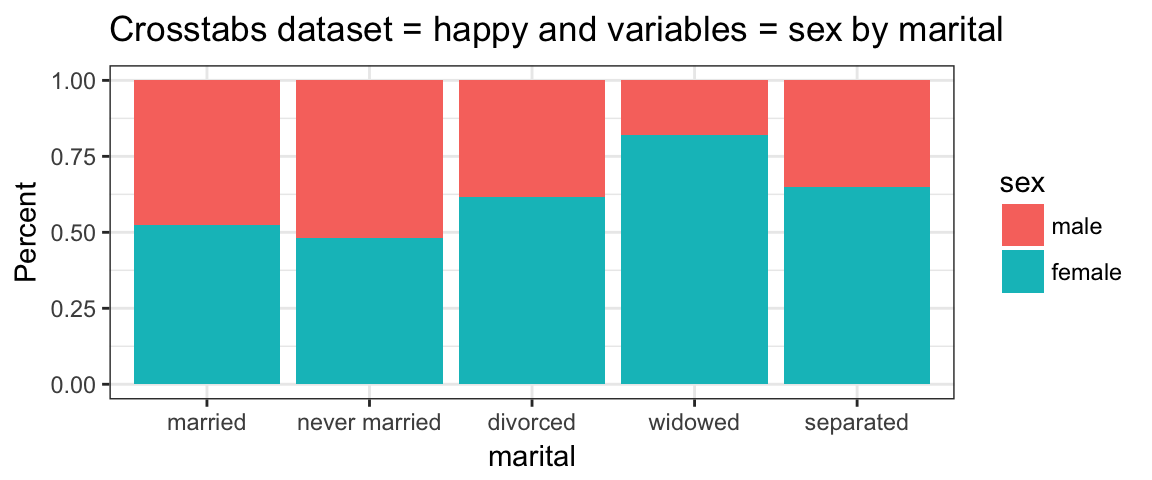
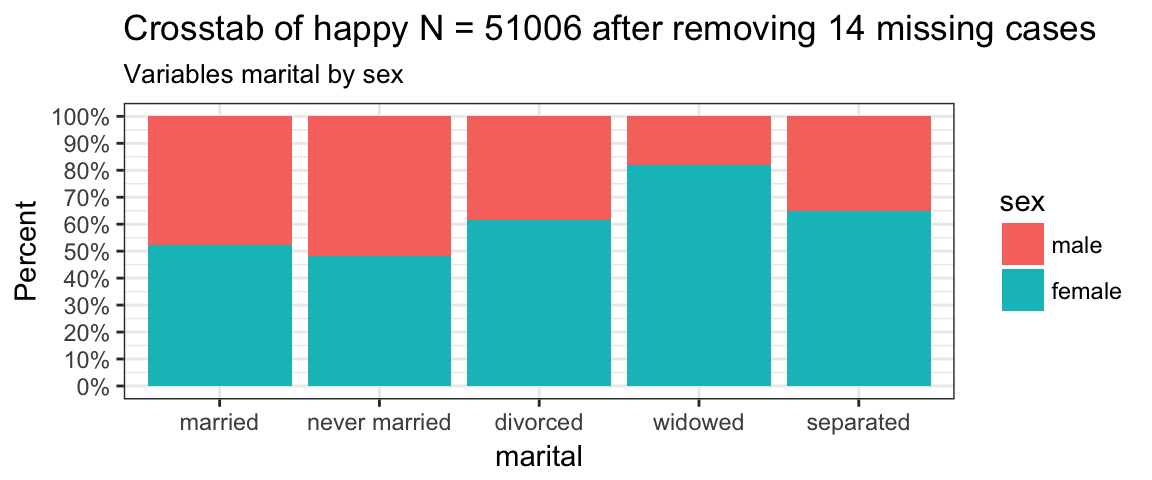
Website rebuilt to acknowledge hotfix

diff --git a/docs/articles/Using-PlotXTabs.html b/docs/articles/Using-PlotXTabs.html
@@ -38,7 +38,7 @@
       </button>
       <span class="navbar-brand">
         <a class="navbar-link" href="../index.html">CGPfunctions</a>
-        <span class="label label-default" data-toggle="tooltip" data-placement="bottom" title="Released package">0.3</span>
+        <span class="label label-default" data-toggle="tooltip" data-placement="bottom" title="Released package">0.3.1</span>
       </span>
     </div>
 
@@ -94,7 +94,7 @@
       <h1>Using PlotXTabs</h1>
                         <h4 class="author">Chuck Powell</h4>
             
-            <h4 class="date">2018-04-19</h4>
+            <h4 class="date">2018-04-25</h4>
       
       <small>Source: <a href="https://github.com/ibecav/CGPfunctions/blob/master/vignettes/Using-PlotXTabs.Rmd"><code>vignettes/Using-PlotXTabs.Rmd</code></a></small>
       <p class="hidden name"><code>Using-PlotXTabs.Rmd</code></p>
@@ -127,34 +127,34 @@
 <p>The data is a small sample of variables related to happiness from the general social survey (GSS). The GSS is a yearly cross-sectional survey of Americans, run from 1976. We combine data for 25 years to yield 51,020 observations, and of the over 5,000 variables, we select nine related to happiness.</p>
 </blockquote>
 <p>We’ll load the library and take a quick look at the structure of the data.</p>
-<div class="sourceCode"><pre class="sourceCode r"><code class="sourceCode r"><span class="kw">library</span>(productplots)
-<span class="kw">str</span>(happy)
-<span class="co">#&gt; 'data.frame':    51020 obs. of  10 variables:</span>
-<span class="co">#&gt;  $ id     : num  1 2 3 4 5 6 7 8 9 10 ...</span>
-<span class="co">#&gt;  $ happy  : Factor w/ 3 levels "not too happy",..: 1 1 2 1 2 2 1 1 2 2 ...</span>
-<span class="co">#&gt;  $ year   : num  1972 1972 1972 1972 1972 ...</span>
-<span class="co">#&gt;  $ age    : num  23 70 48 27 61 26 28 27 21 30 ...</span>
-<span class="co">#&gt;  $ sex    : Factor w/ 2 levels "male","female": 2 1 2 2 2 1 1 1 2 2 ...</span>
-<span class="co">#&gt;  $ marital: Factor w/ 5 levels "married","never married",..: 2 1 1 1 1 2 3 2 2 1 ...</span>
-<span class="co">#&gt;  $ degree : Factor w/ 5 levels "lt high school",..: 4 1 2 4 2 2 2 4 2 2 ...</span>
-<span class="co">#&gt;  $ finrela: Factor w/ 5 levels "far below average",..: 3 4 3 3 4 4 4 3 3 2 ...</span>
-<span class="co">#&gt;  $ health : Factor w/ 4 levels "poor","fair",..: 3 2 4 3 3 3 4 3 4 2 ...</span>
-<span class="co">#&gt;  $ wtssall: num  0.445 0.889 0.889 0.889 0.889 ...</span></code></pre></div>
+<div class="sourceCode" id="cb1"><pre class="sourceCode r"><code class="sourceCode r"><a class="sourceLine" id="cb1-1" data-line-number="1"><span class="kw">library</span>(productplots)</a>
+<a class="sourceLine" id="cb1-2" data-line-number="2"><span class="kw">str</span>(happy)</a>
+<a class="sourceLine" id="cb1-3" data-line-number="3"><span class="co">#&gt; 'data.frame':    51020 obs. of  10 variables:</span></a>
+<a class="sourceLine" id="cb1-4" data-line-number="4"><span class="co">#&gt;  $ id     : num  1 2 3 4 5 6 7 8 9 10 ...</span></a>
+<a class="sourceLine" id="cb1-5" data-line-number="5"><span class="co">#&gt;  $ happy  : Factor w/ 3 levels "not too happy",..: 1 1 2 1 2 2 1 1 2 2 ...</span></a>
+<a class="sourceLine" id="cb1-6" data-line-number="6"><span class="co">#&gt;  $ year   : num  1972 1972 1972 1972 1972 ...</span></a>
+<a class="sourceLine" id="cb1-7" data-line-number="7"><span class="co">#&gt;  $ age    : num  23 70 48 27 61 26 28 27 21 30 ...</span></a>
+<a class="sourceLine" id="cb1-8" data-line-number="8"><span class="co">#&gt;  $ sex    : Factor w/ 2 levels "male","female": 2 1 2 2 2 1 1 1 2 2 ...</span></a>
+<a class="sourceLine" id="cb1-9" data-line-number="9"><span class="co">#&gt;  $ marital: Factor w/ 5 levels "married","never married",..: 2 1 1 1 1 2 3 2 2 1 ...</span></a>
+<a class="sourceLine" id="cb1-10" data-line-number="10"><span class="co">#&gt;  $ degree : Factor w/ 5 levels "lt high school",..: 4 1 2 4 2 2 2 4 2 2 ...</span></a>
+<a class="sourceLine" id="cb1-11" data-line-number="11"><span class="co">#&gt;  $ finrela: Factor w/ 5 levels "far below average",..: 3 4 3 3 4 4 4 3 3 2 ...</span></a>
+<a class="sourceLine" id="cb1-12" data-line-number="12"><span class="co">#&gt;  $ health : Factor w/ 4 levels "poor","fair",..: 3 2 4 3 3 3 4 3 4 2 ...</span></a>
+<a class="sourceLine" id="cb1-13" data-line-number="13"><span class="co">#&gt;  $ wtssall: num  0.445 0.889 0.889 0.889 0.889 ...</span></a></code></pre></div>
 <p>We’ll be focusing on the non numeric variables. I certainly can’t claim to do a detailed analysis here but at least the questions will be fun I hope…</p>
-<div class="sourceCode"><pre class="sourceCode r"><code class="sourceCode r"><span class="co"># who's happier by gender</span>
-<span class="kw"><a href="../reference/PlotXTabs.html">PlotXTabs</a></span>(happy,happy,sex)
-<span class="co">#&gt; Plotted dataset happy variables happy by sex</span></code></pre></div>
+<div class="sourceCode" id="cb2"><pre class="sourceCode r"><code class="sourceCode r"><a class="sourceLine" id="cb2-1" data-line-number="1"><span class="co"># who's happier by gender</span></a>
+<a class="sourceLine" id="cb2-2" data-line-number="2"><span class="kw"><a href="../reference/PlotXTabs.html">PlotXTabs</a></span>(happy,happy,sex)</a>
+<a class="sourceLine" id="cb2-3" data-line-number="3"><span class="co">#&gt; Plotted dataset happy variables happy by sex</span></a></code></pre></div>
 <p><img src="Using-PlotXTabs_files/figure-html/vignette1-1.png" width="576"></p>
-<div class="sourceCode"><pre class="sourceCode r"><code class="sourceCode r"><span class="co"># same thing using column numbers and a stacked bar</span>
-<span class="kw"><a href="../reference/PlotXTabs.html">PlotXTabs</a></span>(happy,<span class="dv">2</span>,<span class="dv">5</span>,<span class="st">"stack"</span>)
-<span class="co">#&gt; Creating the variable pairings from dataframe happy</span>
-<span class="co">#&gt; Plot #1 happy with sex</span>
-<span class="co">#&gt; Plotting complete</span></code></pre></div>
+<div class="sourceCode" id="cb3"><pre class="sourceCode r"><code class="sourceCode r"><a class="sourceLine" id="cb3-1" data-line-number="1"><span class="co"># same thing using column numbers and a stacked bar</span></a>
+<a class="sourceLine" id="cb3-2" data-line-number="2"><span class="kw"><a href="../reference/PlotXTabs.html">PlotXTabs</a></span>(happy,<span class="dv">2</span>,<span class="dv">5</span>,<span class="st">"stack"</span>)</a>
+<a class="sourceLine" id="cb3-3" data-line-number="3"><span class="co">#&gt; Creating the variable pairings from dataframe happy</span></a>
+<a class="sourceLine" id="cb3-4" data-line-number="4"><span class="co">#&gt; Plot #1 happy with sex</span></a>
+<a class="sourceLine" id="cb3-5" data-line-number="5"><span class="co">#&gt; Plotting complete</span></a></code></pre></div>
 <p><img src="Using-PlotXTabs_files/figure-html/vignette1-2.png" width="576"></p>
-<div class="sourceCode"><pre class="sourceCode r"><code class="sourceCode r"><span class="co"># happiness by a variety of possible factors as a percent</span>
-<span class="kw"><a href="../reference/PlotXTabs.html">PlotXTabs</a></span>(happy, <span class="dv">2</span>, <span class="kw">c</span>(<span class="dv">5</span><span class="op">:</span><span class="dv">9</span>), <span class="dt">plottype =</span> <span class="st">"percent"</span>)
-<span class="co">#&gt; Creating the variable pairings from dataframe happy</span>
-<span class="co">#&gt; Plot #1 happy with sex</span></code></pre></div>
+<div class="sourceCode" id="cb4"><pre class="sourceCode r"><code class="sourceCode r"><a class="sourceLine" id="cb4-1" data-line-number="1"><span class="co"># happiness by a variety of possible factors as a percent</span></a>
+<a class="sourceLine" id="cb4-2" data-line-number="2"><span class="kw"><a href="../reference/PlotXTabs.html">PlotXTabs</a></span>(happy, <span class="dv">2</span>, <span class="kw">c</span>(<span class="dv">5</span><span class="op">:</span><span class="dv">9</span>), <span class="dt">plottype =</span> <span class="st">"percent"</span>)</a>
+<a class="sourceLine" id="cb4-3" data-line-number="3"><span class="co">#&gt; Creating the variable pairings from dataframe happy</span></a>
+<a class="sourceLine" id="cb4-4" data-line-number="4"><span class="co">#&gt; Plot #1 happy with sex</span></a></code></pre></div>
 <p><img src="Using-PlotXTabs_files/figure-html/vignette1-3.png" width="576"></p>
 <pre><code>#&gt; Plot #2 happy with marital</code></pre>
 <p><img src="Using-PlotXTabs_files/figure-html/vignette1-4.png" width="576"></p>
@@ -165,18 +165,18 @@
 <pre><code>#&gt; Plot #5 happy with health
 #&gt; Plotting complete</code></pre>
 <p><img src="Using-PlotXTabs_files/figure-html/vignette1-7.png" width="576"></p>
-<div class="sourceCode"><pre class="sourceCode r"><code class="sourceCode r"><span class="co"># turn the numbers around and change them up basically just showing all</span>
-<span class="co"># the permutations</span>
-<span class="kw"><a href="../reference/PlotXTabs.html">PlotXTabs</a></span>(happy, <span class="kw">c</span>(<span class="dv">2</span>,<span class="dv">5</span>), <span class="dv">9</span>, <span class="dt">plottype =</span> <span class="st">"side"</span>)
-<span class="co">#&gt; Creating the variable pairings from dataframe happy</span>
-<span class="co">#&gt; Plot #1 happy with health</span></code></pre></div>
+<div class="sourceCode" id="cb9"><pre class="sourceCode r"><code class="sourceCode r"><a class="sourceLine" id="cb9-1" data-line-number="1"><span class="co"># turn the numbers around and change them up basically just showing all</span></a>
+<a class="sourceLine" id="cb9-2" data-line-number="2"><span class="co"># the permutations</span></a>
+<a class="sourceLine" id="cb9-3" data-line-number="3"><span class="kw"><a href="../reference/PlotXTabs.html">PlotXTabs</a></span>(happy, <span class="kw">c</span>(<span class="dv">2</span>,<span class="dv">5</span>), <span class="dv">9</span>, <span class="dt">plottype =</span> <span class="st">"side"</span>)</a>
+<a class="sourceLine" id="cb9-4" data-line-number="4"><span class="co">#&gt; Creating the variable pairings from dataframe happy</span></a>
+<a class="sourceLine" id="cb9-5" data-line-number="5"><span class="co">#&gt; Plot #1 happy with health</span></a></code></pre></div>
 <p><img src="Using-PlotXTabs_files/figure-html/vignette1-8.png" width="576"></p>
 <pre><code>#&gt; Plot #2 sex with health
 #&gt; Plotting complete</code></pre>
 <p><img src="Using-PlotXTabs_files/figure-html/vignette1-9.png" width="576"></p>
-<div class="sourceCode"><pre class="sourceCode r"><code class="sourceCode r"><span class="kw"><a href="../reference/PlotXTabs.html">PlotXTabs</a></span>(happy, <span class="kw">c</span>(<span class="dv">2</span>,<span class="dv">5</span>), <span class="kw">c</span>(<span class="dv">6</span><span class="op">:</span><span class="dv">9</span>), <span class="dt">plottype =</span> <span class="st">"percent"</span>)
-<span class="co">#&gt; Creating the variable pairings from dataframe happy</span>
-<span class="co">#&gt; Plot #1 happy with marital</span></code></pre></div>
+<div class="sourceCode" id="cb11"><pre class="sourceCode r"><code class="sourceCode r"><a class="sourceLine" id="cb11-1" data-line-number="1"><span class="kw"><a href="../reference/PlotXTabs.html">PlotXTabs</a></span>(happy, <span class="kw">c</span>(<span class="dv">2</span>,<span class="dv">5</span>), <span class="kw">c</span>(<span class="dv">6</span><span class="op">:</span><span class="dv">9</span>), <span class="dt">plottype =</span> <span class="st">"percent"</span>)</a>
+<a class="sourceLine" id="cb11-2" data-line-number="2"><span class="co">#&gt; Creating the variable pairings from dataframe happy</span></a>
+<a class="sourceLine" id="cb11-3" data-line-number="3"><span class="co">#&gt; Plot #1 happy with marital</span></a></code></pre></div>
 <p><img src="Using-PlotXTabs_files/figure-html/vignette1-10.png" width="576"></p>
 <pre><code>#&gt; Plot #2 happy with degree</code></pre>
 <p><img src="Using-PlotXTabs_files/figure-html/vignette1-11.png" width="576"></p>
@@ -193,18 +193,18 @@
 <pre><code>#&gt; Plot #8 sex with health
 #&gt; Plotting complete</code></pre>
 <p><img src="Using-PlotXTabs_files/figure-html/vignette1-17.png" width="576"></p>
-<div class="sourceCode"><pre class="sourceCode r"><code class="sourceCode r"><span class="kw"><a href="../reference/PlotXTabs.html">PlotXTabs</a></span>(happy, happy, <span class="kw">c</span>(<span class="dv">6</span>,<span class="dv">7</span>,<span class="dv">9</span>), <span class="dt">plottype =</span> <span class="st">"percent"</span>)
-<span class="co">#&gt; Creating the variable pairings from dataframe happy</span>
-<span class="co">#&gt; Plot #1 happy with marital</span></code></pre></div>
+<div class="sourceCode" id="cb19"><pre class="sourceCode r"><code class="sourceCode r"><a class="sourceLine" id="cb19-1" data-line-number="1"><span class="kw"><a href="../reference/PlotXTabs.html">PlotXTabs</a></span>(happy, happy, <span class="kw">c</span>(<span class="dv">6</span>,<span class="dv">7</span>,<span class="dv">9</span>), <span class="dt">plottype =</span> <span class="st">"percent"</span>)</a>
+<a class="sourceLine" id="cb19-2" data-line-number="2"><span class="co">#&gt; Creating the variable pairings from dataframe happy</span></a>
+<a class="sourceLine" id="cb19-3" data-line-number="3"><span class="co">#&gt; Plot #1 happy with marital</span></a></code></pre></div>
 <p><img src="Using-PlotXTabs_files/figure-html/vignette1-18.png" width="576"></p>
 <pre><code>#&gt; Plot #2 happy with degree</code></pre>
 <p><img src="Using-PlotXTabs_files/figure-html/vignette1-19.png" width="576"></p>
 <pre><code>#&gt; Plot #3 happy with health
 #&gt; Plotting complete</code></pre>
 <p><img src="Using-PlotXTabs_files/figure-html/vignette1-20.png" width="576"></p>
-<div class="sourceCode"><pre class="sourceCode r"><code class="sourceCode r"><span class="kw"><a href="../reference/PlotXTabs.html">PlotXTabs</a></span>(happy, <span class="kw">c</span>(<span class="dv">6</span>,<span class="dv">7</span>,<span class="dv">9</span>), happy, <span class="dt">plottype =</span> <span class="st">"percent"</span>)
-<span class="co">#&gt; Creating the variable pairings from dataframe happy</span>
-<span class="co">#&gt; Plot #1 marital with happy</span></code></pre></div>
+<div class="sourceCode" id="cb22"><pre class="sourceCode r"><code class="sourceCode r"><a class="sourceLine" id="cb22-1" data-line-number="1"><span class="kw"><a href="../reference/PlotXTabs.html">PlotXTabs</a></span>(happy, <span class="kw">c</span>(<span class="dv">6</span>,<span class="dv">7</span>,<span class="dv">9</span>), happy, <span class="dt">plottype =</span> <span class="st">"percent"</span>)</a>
+<a class="sourceLine" id="cb22-2" data-line-number="2"><span class="co">#&gt; Creating the variable pairings from dataframe happy</span></a>
+<a class="sourceLine" id="cb22-3" data-line-number="3"><span class="co">#&gt; Plot #1 marital with happy</span></a></code></pre></div>
 <p><img src="Using-PlotXTabs_files/figure-html/vignette1-21.png" width="576"></p>
 <pre><code>#&gt; Plot #2 degree with happy</code></pre>
 <p><img src="Using-PlotXTabs_files/figure-html/vignette1-22.png" width="576"></p>

diff --git a/docs/articles/Using-Plot2WayANOVA.html b/docs/articles/Using-Plot2WayANOVA.html
@@ -38,7 +38,7 @@
       </button>
       <span class="navbar-brand">
         <a class="navbar-link" href="../index.html">CGPfunctions</a>
-        <span class="label label-default" data-toggle="tooltip" data-placement="bottom" title="Released package">0.3</span>
+        <span class="label label-default" data-toggle="tooltip" data-placement="bottom" title="Released package">0.3.1</span>
       </span>
     </div>
 
@@ -94,7 +94,7 @@
       <h1>Using Plot2WayAnova</h1>
                         <h4 class="author">Chuck Powell</h4>
             
-            <h4 class="date">2018-04-19</h4>
+            <h4 class="date">2018-04-25</h4>
       
       <small>Source: <a href="https://github.com/ibecav/CGPfunctions/blob/master/vignettes/Using-Plot2WayANOVA.Rmd"><code>vignettes/Using-Plot2WayANOVA.Rmd</code></a></small>
       <p class="hidden name"><code>Using-Plot2WayANOVA.Rmd</code></p>
@@ -142,63 +142,63 @@
 <div id="installation" class="section level2">
 <h2 class="hasAnchor">
 <a href="#installation" class="anchor"></a>Installation</h2>
-<div class="sourceCode"><pre class="sourceCode r"><code class="sourceCode r"><span class="co"># Install from CRAN</span>
-<span class="kw">install.packages</span>(<span class="st">"CGPfunctions"</span>)
-
-<span class="co"># Or the development version from GitHub</span>
-<span class="co"># install.packages("devtools")</span>
-devtools<span class="op">::</span><span class="kw"><a href="http://www.rdocumentation.org/packages/devtools/topics/install_github">install_github</a></span>(<span class="st">"ibecav/CGPfunctions"</span>)</code></pre></div>
+<div class="sourceCode" id="cb1"><pre class="sourceCode r"><code class="sourceCode r"><a class="sourceLine" id="cb1-1" data-line-number="1"><span class="co"># Install from CRAN</span></a>
+<a class="sourceLine" id="cb1-2" data-line-number="2"><span class="kw">install.packages</span>(<span class="st">"CGPfunctions"</span>)</a>
+<a class="sourceLine" id="cb1-3" data-line-number="3"></a>
+<a class="sourceLine" id="cb1-4" data-line-number="4"><span class="co"># Or the development version from GitHub</span></a>
+<a class="sourceLine" id="cb1-5" data-line-number="5"><span class="co"># install.packages("devtools")</span></a>
+<a class="sourceLine" id="cb1-6" data-line-number="6">devtools<span class="op">::</span><span class="kw"><a href="http://www.rdocumentation.org/packages/devtools/topics/install_github">install_github</a></span>(<span class="st">"ibecav/CGPfunctions"</span>)</a></code></pre></div>
 <p>then load the library.</p>
-<div class="sourceCode"><pre class="sourceCode r"><code class="sourceCode r"><span class="kw">library</span>(CGPfunctions)</code></pre></div>
+<div class="sourceCode" id="cb2"><pre class="sourceCode r"><code class="sourceCode r"><a class="sourceLine" id="cb2-1" data-line-number="1"><span class="kw">library</span>(CGPfunctions)</a></code></pre></div>
 </div>
 <div id="example-of-using-the-function" class="section level2">
 <h2 class="hasAnchor">
 <a href="#example-of-using-the-function" class="anchor"></a>Example of using the function</h2>
 <p>The only two required parameters are a formula and a dataframe (like) object. If we run the function in its simplest form here’s what we get.</p>
-<div class="sourceCode"><pre class="sourceCode r"><code class="sourceCode r"><span class="kw"><a href="../reference/Plot2WayANOVA.html">Plot2WayANOVA</a></span>(mpg<span class="op">~</span>am<span class="op">*</span>cyl, mtcars)
-<span class="co">#&gt; </span>
-<span class="co">#&gt; Converting am to a factor --- check your results</span>
-<span class="co">#&gt; </span>
-<span class="co">#&gt; Converting cyl to a factor --- check your results</span>
-<span class="co">#&gt; </span>
-<span class="co">#&gt; You have an unbalanced design. Using Type II sum of squares, eta squared may not sum to 1.0</span>
-<span class="co">#&gt; # A tibble: 4 x 8</span>
-<span class="co">#&gt;   Source       Df `Sum Sq` `Mean Sq` `F value`       p sigstars `eta sq`</span>
-<span class="co">#&gt;   &lt;fct&gt;     &lt;int&gt;    &lt;dbl&gt;     &lt;dbl&gt;     &lt;dbl&gt;   &lt;dbl&gt; &lt;chr&gt;       &lt;dbl&gt;</span>
-<span class="co">#&gt; 1 am            1     36.8     36.8       4.00  0.0560 .          0.0330</span>
-<span class="co">#&gt; 2 cyl           2    456.     228.       24.8   0.     ***        0.405 </span>
-<span class="co">#&gt; 3 am:cyl        2     25.4     12.7       1.40  0.269  ""         0.0230</span>
-<span class="co">#&gt; 4 Residuals    26    239.       9.19     NA    NA      &lt;NA&gt;       0.212</span>
-<span class="co">#&gt; </span>
-<span class="co">#&gt; Table of group means</span>
-<span class="co">#&gt; # A tibble: 6 x 9</span>
-<span class="co">#&gt; # Groups:   am [2]</span>
-<span class="co">#&gt;   am    cyl   TheMean TheSD TheSEM CIMuliplier LowerBound UpperBound     N</span>
-<span class="co">#&gt;   &lt;fct&gt; &lt;fct&gt;   &lt;dbl&gt; &lt;dbl&gt;  &lt;dbl&gt;       &lt;dbl&gt;      &lt;dbl&gt;      &lt;dbl&gt; &lt;int&gt;</span>
-<span class="co">#&gt; 1 0     4        22.9 1.45   0.839        4.30       19.3       26.5     3</span>
-<span class="co">#&gt; 2 0     6        19.1 1.63   0.816        3.18       16.5       21.7     4</span>
-<span class="co">#&gt; 3 0     8        15.0 2.77   0.801        2.20       13.3       16.8    12</span>
-<span class="co">#&gt; 4 1     4        28.1 4.48   1.59         2.36       24.3       31.8     8</span>
-<span class="co">#&gt; 5 1     6        20.6 0.751  0.433        4.30       18.7       22.4     3</span>
-<span class="co">#&gt; 6 1     8        15.4 0.566  0.400       12.7        10.3       20.5     2</span>
-<span class="co">#&gt; </span>
-<span class="co">#&gt; Testing Homogeneity of Variance with Brown-Forsythe</span>
-<span class="co">#&gt;    *** Possible violation of the assumption ***</span>
-<span class="co">#&gt; Levene's Test for Homogeneity of Variance (center = median)</span>
-<span class="co">#&gt;       Df F value  Pr(&gt;F)  </span>
-<span class="co">#&gt; group  5   2.736 0.04086 *</span>
-<span class="co">#&gt;       26                  </span>
-<span class="co">#&gt; ---</span>
-<span class="co">#&gt; Signif. codes:  0 '***' 0.001 '**' 0.01 '*' 0.05 '.' 0.1 ' ' 1</span>
-<span class="co">#&gt; </span>
-<span class="co">#&gt; Testing Normality Assumption with Shapiro-Wilk</span>
-<span class="co">#&gt; </span>
-<span class="co">#&gt;  Shapiro-Wilk normality test</span>
-<span class="co">#&gt; </span>
-<span class="co">#&gt; data:  MyAOV_residuals</span>
-<span class="co">#&gt; W = 0.96277, p-value = 0.3263</span>
-<span class="co">#&gt; </span>
-<span class="co">#&gt; Interaction graph plotted...</span></code></pre></div>
+<div class="sourceCode" id="cb3"><pre class="sourceCode r"><code class="sourceCode r"><a class="sourceLine" id="cb3-1" data-line-number="1"><span class="kw"><a href="../reference/Plot2WayANOVA.html">Plot2WayANOVA</a></span>(mpg<span class="op">~</span>am<span class="op">*</span>cyl, mtcars)</a>
+<a class="sourceLine" id="cb3-2" data-line-number="2"><span class="co">#&gt; </span></a>
+<a class="sourceLine" id="cb3-3" data-line-number="3"><span class="co">#&gt; Converting am to a factor --- check your results</span></a>
+<a class="sourceLine" id="cb3-4" data-line-number="4"><span class="co">#&gt; </span></a>
+<a class="sourceLine" id="cb3-5" data-line-number="5"><span class="co">#&gt; Converting cyl to a factor --- check your results</span></a>
+<a class="sourceLine" id="cb3-6" data-line-number="6"><span class="co">#&gt; </span></a>
+<a class="sourceLine" id="cb3-7" data-line-number="7"><span class="co">#&gt; You have an unbalanced design. Using Type II sum of squares, eta squared may not sum to 1.0</span></a>
+<a class="sourceLine" id="cb3-8" data-line-number="8"><span class="co">#&gt; # A tibble: 4 x 8</span></a>
+<a class="sourceLine" id="cb3-9" data-line-number="9"><span class="co">#&gt;   Source       Df `Sum Sq` `Mean Sq` `F value`       p sigstars `eta sq`</span></a>
+<a class="sourceLine" id="cb3-10" data-line-number="10"><span class="co">#&gt;   &lt;fct&gt;     &lt;int&gt;    &lt;dbl&gt;     &lt;dbl&gt;     &lt;dbl&gt;   &lt;dbl&gt; &lt;chr&gt;       &lt;dbl&gt;</span></a>
+<a class="sourceLine" id="cb3-11" data-line-number="11"><span class="co">#&gt; 1 am            1     36.8     36.8       4.00  0.0560 .          0.0330</span></a>
+<a class="sourceLine" id="cb3-12" data-line-number="12"><span class="co">#&gt; 2 cyl           2    456.     228.       24.8   0.     ***        0.405 </span></a>
+<a class="sourceLine" id="cb3-13" data-line-number="13"><span class="co">#&gt; 3 am:cyl        2     25.4     12.7       1.40  0.269  ""         0.0230</span></a>
+<a class="sourceLine" id="cb3-14" data-line-number="14"><span class="co">#&gt; 4 Residuals    26    239.       9.19     NA    NA      &lt;NA&gt;       0.212</span></a>
+<a class="sourceLine" id="cb3-15" data-line-number="15"><span class="co">#&gt; </span></a>
+<a class="sourceLine" id="cb3-16" data-line-number="16"><span class="co">#&gt; Table of group means</span></a>
+<a class="sourceLine" id="cb3-17" data-line-number="17"><span class="co">#&gt; # A tibble: 6 x 9</span></a>
+<a class="sourceLine" id="cb3-18" data-line-number="18"><span class="co">#&gt; # Groups:   am [2]</span></a>
+<a class="sourceLine" id="cb3-19" data-line-number="19"><span class="co">#&gt;   am    cyl   TheMean TheSD TheSEM CIMuliplier LowerBound UpperBound     N</span></a>
+<a class="sourceLine" id="cb3-20" data-line-number="20"><span class="co">#&gt;   &lt;fct&gt; &lt;fct&gt;   &lt;dbl&gt; &lt;dbl&gt;  &lt;dbl&gt;       &lt;dbl&gt;      &lt;dbl&gt;      &lt;dbl&gt; &lt;int&gt;</span></a>
+<a class="sourceLine" id="cb3-21" data-line-number="21"><span class="co">#&gt; 1 0     4        22.9 1.45   0.839        4.30       19.3       26.5     3</span></a>
+<a class="sourceLine" id="cb3-22" data-line-number="22"><span class="co">#&gt; 2 0     6        19.1 1.63   0.816        3.18       16.5       21.7     4</span></a>
+<a class="sourceLine" id="cb3-23" data-line-number="23"><span class="co">#&gt; 3 0     8        15.0 2.77   0.801        2.20       13.3       16.8    12</span></a>
+<a class="sourceLine" id="cb3-24" data-line-number="24"><span class="co">#&gt; 4 1     4        28.1 4.48   1.59         2.36       24.3       31.8     8</span></a>
+<a class="sourceLine" id="cb3-25" data-line-number="25"><span class="co">#&gt; 5 1     6        20.6 0.751  0.433        4.30       18.7       22.4     3</span></a>
+<a class="sourceLine" id="cb3-26" data-line-number="26"><span class="co">#&gt; 6 1     8        15.4 0.566  0.400       12.7        10.3       20.5     2</span></a>
+<a class="sourceLine" id="cb3-27" data-line-number="27"><span class="co">#&gt; </span></a>
+<a class="sourceLine" id="cb3-28" data-line-number="28"><span class="co">#&gt; Testing Homogeneity of Variance with Brown-Forsythe</span></a>
+<a class="sourceLine" id="cb3-29" data-line-number="29"><span class="co">#&gt;    *** Possible violation of the assumption ***</span></a>
+<a class="sourceLine" id="cb3-30" data-line-number="30"><span class="co">#&gt; Levene's Test for Homogeneity of Variance (center = median)</span></a>
+<a class="sourceLine" id="cb3-31" data-line-number="31"><span class="co">#&gt;       Df F value  Pr(&gt;F)  </span></a>
+<a class="sourceLine" id="cb3-32" data-line-number="32"><span class="co">#&gt; group  5   2.736 0.04086 *</span></a>
+<a class="sourceLine" id="cb3-33" data-line-number="33"><span class="co">#&gt;       26                  </span></a>
+<a class="sourceLine" id="cb3-34" data-line-number="34"><span class="co">#&gt; ---</span></a>
+<a class="sourceLine" id="cb3-35" data-line-number="35"><span class="co">#&gt; Signif. codes:  0 '***' 0.001 '**' 0.01 '*' 0.05 '.' 0.1 ' ' 1</span></a>
+<a class="sourceLine" id="cb3-36" data-line-number="36"><span class="co">#&gt; </span></a>
+<a class="sourceLine" id="cb3-37" data-line-number="37"><span class="co">#&gt; Testing Normality Assumption with Shapiro-Wilk</span></a>
+<a class="sourceLine" id="cb3-38" data-line-number="38"><span class="co">#&gt; </span></a>
+<a class="sourceLine" id="cb3-39" data-line-number="39"><span class="co">#&gt;  Shapiro-Wilk normality test</span></a>
+<a class="sourceLine" id="cb3-40" data-line-number="40"><span class="co">#&gt; </span></a>
+<a class="sourceLine" id="cb3-41" data-line-number="41"><span class="co">#&gt; data:  MyAOV_residuals</span></a>
+<a class="sourceLine" id="cb3-42" data-line-number="42"><span class="co">#&gt; W = 0.96277, p-value = 0.3263</span></a>
+<a class="sourceLine" id="cb3-43" data-line-number="43"><span class="co">#&gt; </span></a>
+<a class="sourceLine" id="cb3-44" data-line-number="44"><span class="co">#&gt; Interaction graph plotted...</span></a></code></pre></div>
 <p><img src="Using-Plot2WayANOVA_files/figure-html/Plot2WayANOVA-1.png" width="576"></p>
 </div>
 <div id="credits" class="section level2">

diff --git a/docs/index.html b/docs/index.html
@@ -38,7 +38,7 @@
       </button>
       <span class="navbar-brand">
         <a class="navbar-link" href="index.html">CGPfunctions</a>
-        <span class="label label-default" data-toggle="tooltip" data-placement="bottom" title="Released package">0.3</span>
+        <span class="label label-default" data-toggle="tooltip" data-placement="bottom" title="Released package">0.3.1</span>
       </span>
     </div>
 
@@ -120,12 +120,12 @@
 <div id="installation" class="section level2">
 <h2 class="hasAnchor">
 <a href="#installation" class="anchor"></a>Installation</h2>
-<div class="sourceCode"><pre class="sourceCode r"><code class="sourceCode r"><span class="co"># Install from CRAN</span>
-<span class="kw">install.packages</span>(<span class="st">"CGPfunctions"</span>)
-
-<span class="co"># Or the development version from GitHub</span>
-<span class="co"># install.packages("devtools")</span>
-devtools<span class="op">::</span><span class="kw"><a href="http://www.rdocumentation.org/packages/devtools/topics/install_github">install_github</a></span>(<span class="st">"ibecav/CGPfunctions"</span>)</code></pre></div>
+<div class="sourceCode" id="cb1"><pre class="sourceCode r"><code class="sourceCode r"><a class="sourceLine" id="cb1-1" data-line-number="1"><span class="co"># Install from CRAN</span></a>
+<a class="sourceLine" id="cb1-2" data-line-number="2"><span class="kw">install.packages</span>(<span class="st">"CGPfunctions"</span>)</a>
+<a class="sourceLine" id="cb1-3" data-line-number="3"></a>
+<a class="sourceLine" id="cb1-4" data-line-number="4"><span class="co"># Or the development version from GitHub</span></a>
+<a class="sourceLine" id="cb1-5" data-line-number="5"><span class="co"># install.packages("devtools")</span></a>
+<a class="sourceLine" id="cb1-6" data-line-number="6">devtools<span class="op">::</span><span class="kw"><a href="http://www.rdocumentation.org/packages/devtools/topics/install_github">install_github</a></span>(<span class="st">"ibecav/CGPfunctions"</span>)</a></code></pre></div>
 </div>
 <div id="usage" class="section level2">
 <h2 class="hasAnchor">

diff --git a/docs/news/index.html b/docs/news/index.html
@@ -66,7 +66,7 @@
       </button>
       <span class="navbar-brand">
         <a class="navbar-link" href="../index.html">CGPfunctions</a>
-        <span class="label label-default" data-toggle="tooltip" data-placement="bottom" title="Released package">0.3</span>
+        <span class="label label-default" data-toggle="tooltip" data-placement="bottom" title="Released package">0.3.1</span>
       </span>
     </div>
 
@@ -124,15 +124,16 @@
       <small>Source: <a href='https://github.com/ibecav/CGPfunctions/blob/master/NEWS.md'><code>NEWS.md</code></a></small>
     </div>
 
-    <div id="cgpfunctions-0-2" class="section level1">
+    <div id="cgpfunctions-0-3-1" class="section level1">
 <h1 class="page-header">
-<a href="#cgpfunctions-0-2" class="anchor"></a>CGPfunctions 0.2<small> Unreleased </small>
+<a href="#cgpfunctions-0-3-1" class="anchor"></a>CGPfunctions 0.3.1<small> Unreleased </small>
 </h1>
 <ul>
-<li><p>Added a <code>NEWS.md</code> file to track changes to the package.</p></li>
 <li>Release 0.1</li>
-<li><p>Release 0.3 in development</p></li>
+<li>Release 0.3 published on CRAN</li>
+<li>Release 0.3.1 pubpished on Github</li>
 </ul>
+<p>– Changed version # to 3.1 – Added percent scales to percent plot using the scales package which necessitated changes in DESCRIPTION and NAMESPACE – Added some code to keep track of missing values that are omitted in calculations and plotting – Creating the ggtitle with a bquote seemed to be creating issues with both performance and also creating intermittent errors if the title was long. Replaced bquote with sprintf and while I was at it changed how it presents – Rebuilt vignettes and doco as needed to show the changes</p>
 </div>
   </div>
 
@@ -140,7 +141,7 @@
     <div id="tocnav">
       <h2>Contents</h2>
       <ul class="nav nav-pills nav-stacked">
-        <li><a href="#cgpfunctions-0-2">0.2</a></li>
+        <li><a href="#cgpfunctions-0-3-1">0.3.1</a></li>
       </ul>
     </div>
   </div>

diff --git a/docs/articles/index.html b/docs/articles/index.html
@@ -66,7 +66,7 @@
       </button>
       <span class="navbar-brand">
         <a class="navbar-link" href="../index.html">CGPfunctions</a>
-        <span class="label label-default" data-toggle="tooltip" data-placement="bottom" title="Released package">0.3</span>
+        <span class="label label-default" data-toggle="tooltip" data-placement="bottom" title="Released package">0.3.1</span>
       </span>
     </div>
 

diff --git a/docs/reference/index.html b/docs/reference/index.html
@@ -66,7 +66,7 @@
       </button>
       <span class="navbar-brand">
         <a class="navbar-link" href="../index.html">CGPfunctions</a>
-        <span class="label label-default" data-toggle="tooltip" data-placement="bottom" title="Released package">0.3</span>
+        <span class="label label-default" data-toggle="tooltip" data-placement="bottom" title="Released package">0.3.1</span>
       </span>
     </div>
 

diff --git a/docs/LICENSE-text.html b/docs/LICENSE-text.html
@@ -66,7 +66,7 @@
       </button>
       <span class="navbar-brand">
         <a class="navbar-link" href="index.html">CGPfunctions</a>
-        <span class="label label-default" data-toggle="tooltip" data-placement="bottom" title="Released package">0.3</span>
+        <span class="label label-default" data-toggle="tooltip" data-placement="bottom" title="Released package">0.3.1</span>
       </span>
     </div>
 

diff --git a/docs/authors.html b/docs/authors.html
@@ -66,7 +66,7 @@
       </button>
       <span class="navbar-brand">
         <a class="navbar-link" href="index.html">CGPfunctions</a>
-        <span class="label label-default" data-toggle="tooltip" data-placement="bottom" title="Released package">0.3</span>
+        <span class="label label-default" data-toggle="tooltip" data-placement="bottom" title="Released package">0.3.1</span>
       </span>
     </div>
 
